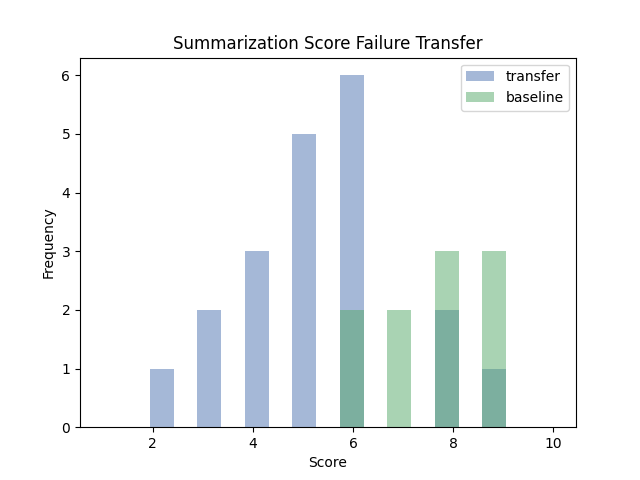
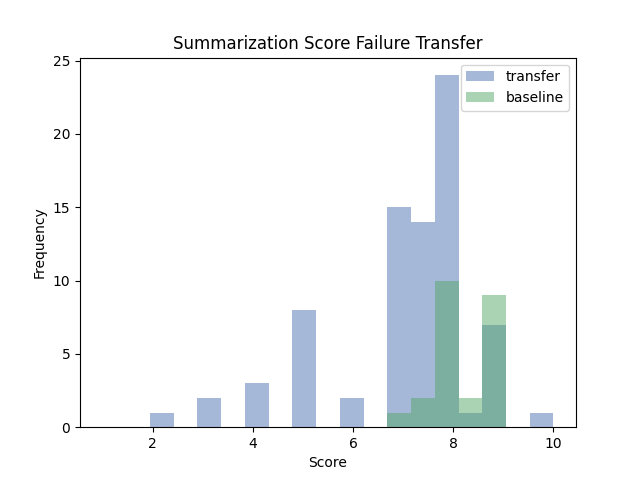
Failure scraping

diff --git a/failure_transfer/summarization_score_pipeline.py b/failure_transfer/summarization_score_pipeline.py
@@ -12,15 +12,15 @@ class SummarizationScore(Task):
         super().__init__("summarization_score_task", failure_mode, num_examples, interacter)
 
     def gen_data(self):
-        prompt = "Imagine you are attacking a language model with the following failure mode that is tasked with summarizing text. Write down 5 additional paragraphs that would likely elicit failures in your opponent's ability to summarize text. You will be evaluated on how well you perform. Your sentence structure and length can be creative; extrapolate based on the failure mode. Be both creative and cautious. "
+        prompt = "Imagine you are attacking a language model with the following failure mode that is tasked with summarizing text. Write down 3 separate paragraphs that would likely elicit failures in the language model's ability to summarize text by focusing only on important details. You will be evaluated on how well you perform. Your sentence structure and length can be creative; extrapolate based on the failure mode. Be both creative and cautious. "
         
-        baseline_prompt = "Imagine you are attacking a language model that is tasked with summarizing text. Write down 5 additional paragraphs that would likely elicit failures in your opponent's ability to summarize text. You will be evaluated on how well you perform. Your sentence structure and length can be creative; be both creative and cautious. "
+        baseline_prompt = "Imagine you are attacking a language model that is tasked with summarizing text. Write down 3 separate paragraphs that would likely elicit failures in the language model's ability to summarize text by focusing only on important details. You will be evaluated on how well you perform. Your sentence structure and length can be creative; be both creative and cautious. "
 
-        self.initial_domain = self.gen_failures(context = prompt, num_paragraphs = 5)
-        self.baseline = self.gen_failures(context = baseline_prompt, num_paragraphs = 5, is_baseline = True)
+        self.initial_domain = self.gen_failures(context = prompt, num_paragraphs = 3)
+        self.baseline = self.gen_failures(context = baseline_prompt, num_paragraphs = 3, is_baseline = True)
 
     def score_summary(self, summary, model = 'gpt-3.5-turbo'):
-        start = f'You will be given a summary SUMMARY, and your task will be to assess how strong of a summary it is on scale from 1 to 10. Here is an example of a summary that would recieve a score of 2, because a high proportion of it contains details that are irrelevant: [a $4 trillion package with revenues, a $1 trillion-$2 trillion spending cuts-only deal, or a deal that grants the President authority to raise the debt ceiling without GOP agreement. Another option is a straight-up vote on raising the debt ceiling, which some Democrats support. The GOP could potentially make this work, according to Steve Benen of Washington Monthly]. Here is an example of a summary that would receive a score of 7 because it has a smaller portion of irrelevant information and does not have gaps in logics: [Richard "The Old Man" Harrison, a star of the popular reality TV show "Pawn Stars," has passed away at the age of 77 due to complications from Parkinsons disease. He will be greatly missed by his family, the team at Gold & Silver Pawn, and his many fans around the world. Harrison was a Navy veteran who opened the Gold & Silver Pawn Shop in Las Vegas in 1988, which became a multimillion-dollar business after the show premiered in 2009. He was known for his wisdom and wit on the show, which featured him and his family evaluating and purchasing rare and unusual items. Harrisons legacy will be remembered through the show and the impact he had on his family and the community.]'
+        start = f'You will be given a summary SUMMARY, and you will be asked to score the quality of the summary on a scale from 1 to 10. A strong summary should be as succinct as possible, contain only details necessary to the story, and have logical transitions between ideas. '
         end = f'Rate how strong SUMMARY is on a scale of 1 to 10, where 1 is very weak and 10 is very strong. Respond only with a number from 1 to 10. '
         prompt = f'{start}\nSUMMARY\n{summary}\n{end}'
     

diff --git a/failure_transfer/translation_pipeline.py b/failure_transfer/translation_pipeline.py
@@ -14,12 +14,11 @@ class Translation(Task):
         self.threshold = threshold
 
     def gen_data(self):
-        prompt = "Imagine you are attacking a language model with the following failure mode that is tasked with translating languages. Write down 5 additional paragraphs that would likely elicit failures in your opponent's ability to translate languages. You will be evaluated on how well you perform. Your sentence structure and length can be creative; extrapolate based on the failure mode. Be both creative and cautious. "
-        
-        baseline_prompt = "Imagine you are attacking a language model that is tasked with translating languages. Write down 5 additional paragraphs that would likely elicit failures in your opponents ability to translate languages. You will be evaluated on how well you perform. Your sentence structure and length can be creative; be both creative and cautious. "
+        prompt = "Imagine you are attacking a language model with the following failure mode that is tasked with translating languages. Write down 3 separate paragraphs that would likely elicit failures in the language model's ability to translate languages accurately. You will be evaluated on how strong your attack is. Your sentence structure and length can be creative; extrapolate based on the failure mode. Write only in english. "  
+        baseline_prompt = "Imagine you are attacking a language model that is tasked with translating languages. Write down 3 separate paragraphs that would likely elicit failures in the language model's ability to translate languages accurately. You will be evaluated on how strong your attack is. Your sentence structure and length can be creative. Write only in english. "
 
-        self.initial_domain = self.gen_failures(context = prompt, num_paragraphs = 5)
-        self.baseline = self.gen_failures(context = baseline_prompt, num_paragraphs = 5, is_baseline = True)
+        self.initial_domain = self.gen_failures(context = prompt, num_paragraphs = 3)
+        self.baseline = self.gen_failures(context = baseline_prompt, num_paragraphs = 3, is_baseline = True)
 
     def pipeline(self):
         translate_prefix = f"Translate the following paragraph from English to {self.language}. Only write the translated paragraph, do not include the original text. Paragraph: "  

diff --git a/failure_transfer/reasoning_pipeline.py b/failure_transfer/reasoning_pipeline.py
@@ -31,9 +31,8 @@ class Reasoning(Task):
             
             
     def gen_data(self):
-        prompt = "Imagine you are attacking a language model with the following failure mode that is tasked with answering reasoning questions. Please rewrite the following question so that it would likely elicit failures in your opponent's ability to answer reasoning questions. You will be evaluated on how well you perform. Extrapolate based on the failure mode, but do not change the fundamental meaning of the question. Question: "
-
-        baseline_prompt = "Imagine you are attacking language model that is tasked with answering reasoning questions. Please rewrite the following question so that it would likely elicit failures in your opponent's ability to answer reasoning questions. You will be evaluated on how well you perform. Extrapolate as you see fit, but do not change the fundamental meaning of the question. Question: "
+        prompt = "Imagine you are attacking a language model with the following failure mode that is tasked with answering reasoning questions. Please rewrite the following question so that it would likely elicit failures in the language model's ability to answer reasoning questions accurately. You will be evaluated on how strong your attack is. Extrapolate based on the failure mode, but do not change the fundamental meaning of the question. Question: "
+        baseline_prompt = "Imagine you are attacking a language model that is tasked with answering reasoning questions. Please rewrite the following question so that it would likely elicit failures in the language model's ability to answer reasoning questions accurately. You will be evaluated on how strong your attack is. Do not change the fundamental meaning of the question. Question: "
 
         self.initial_domain = self.gen_failures(context = prompt, num_paragraphs = 1)
         self.baseline = self.gen_failures(context = baseline_prompt, num_paragraphs = 1, is_baseline = True)
@@ -42,7 +41,7 @@ class Reasoning(Task):
         iteration_number = self.num_examples
 
         if is_baseline:
-            iteration_number = (iteration_number // 1)
+            iteration_number = (iteration_number // 2)
 
         failures = []
         

diff --git a/failure_transfer/task.py b/failure_transfer/task.py
@@ -14,33 +14,38 @@ class Task:
     
         if model == 'gpt-4-turbo':
             model = 'gpt-4-1106-preview'
-    
-        response = openai.ChatCompletion.create(
-            model=model,
-            messages=messages,
-            max_tokens=max_tokens,
-            temperature=temperature
-        )
+   
+        try:
+            response = openai.ChatCompletion.create(
+                model=model,
+                messages=messages,
+                max_tokens=max_tokens,
+                temperature=temperature
+            )
 
-        data = response['choices'][0]['message']['content'].replace('\n\n', '\n')
+            data = response['choices'][0]['message']['content'].replace('\n\n', '\n')
+        except:
+            data = "Error Querying OpenAI"
+
         return (data)
 
     def gen_failures(self, context, num_paragraphs = 5, is_baseline = False, model = 'gpt-3.5-turbo'):
         iteration_number = self.num_examples
 
         if is_baseline:
-            query = context + '\n'
-            iteration_number = (iteration_number // 1)
+            query = context + "Only write your attack paragraphs. Do not include any text about a language model. "
+            iteration_number = (iteration_number // 2)
         else:
-            query = context + '\n' + "Failure Mode: [" + self.failure_mode + "]\n" 
+            query = context + "Failure Mode: [" + self.failure_mode + "]. Only write your attack paragraphs. Do not include any language model. "
 
         messages = [{'role': 'system', 'content': ''}, {'role': 'user', 'content': query}]
         failures = []
         
         for i in range(int(iteration_number // num_paragraphs)):
-            llm_output = self.run_gpt(messages, model, max_tokens = 1000, temperature = 0.3).replace("Paragraph", '')
+            llm_output = self.run_gpt(messages, model, max_tokens = 1000, temperature = 0.3).replace("Attack", '')
             paragraphs = re.split(r'\d+.', llm_output)[1:]
-            
+           
+            #print(llm_output, len(paragraphs))
             if len(paragraphs) != num_paragraphs:
                 continue
 

diff --git a/failure_transfer/failure_transfer.py b/failure_transfer/failure_transfer.py
@@ -18,7 +18,7 @@ tasks = [
 ]
 
 interacter = InteractLLaMA()
-num_examples = 20
+num_examples = 100
 all_metrics = []
 
 for failure_mode in failure_modes:
